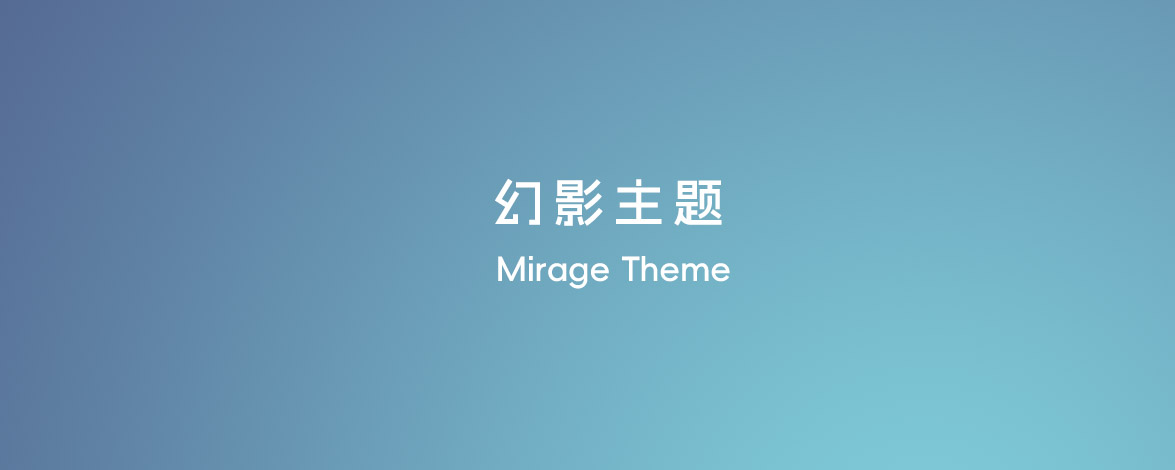
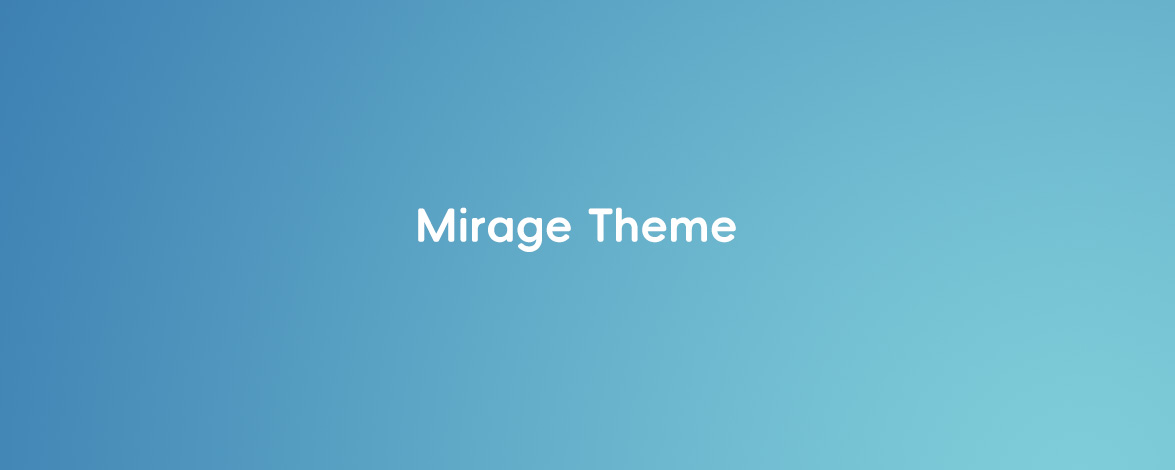
优化主题,修改了多处图片和Logo

diff --git a/style.css b/style.css
@@ -1,7 +1,7 @@
 /*
 Theme Name: Mirage
 Text Domain: mirage
-Version: 2.30.1
+Version: 2.31.0
 Requires at least: 6.1
 Requires PHP: 7.3
 Description: 一个 WordPress 主题。

diff --git a/CHANGES.md b/CHANGES.md
@@ -6,7 +6,9 @@
 - 新增文章详情页的“相关推荐”
 
 ### v2.31.0
+- feat 美化主题
 - feat 项目名称 MirageV 改成 Mirage
+- feat 修改了多处图片和Logo
 
 ### v2.30.1
 - fix 优化分页样式
